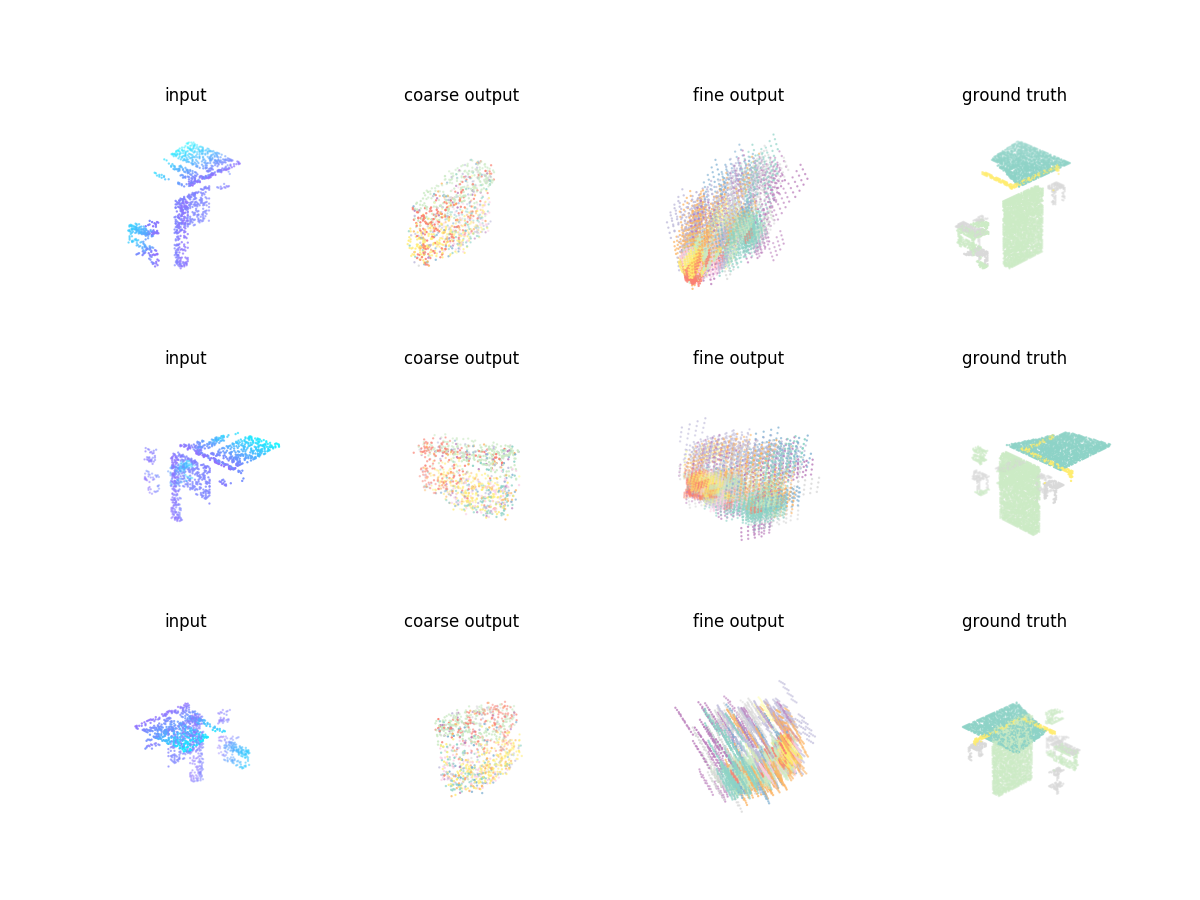
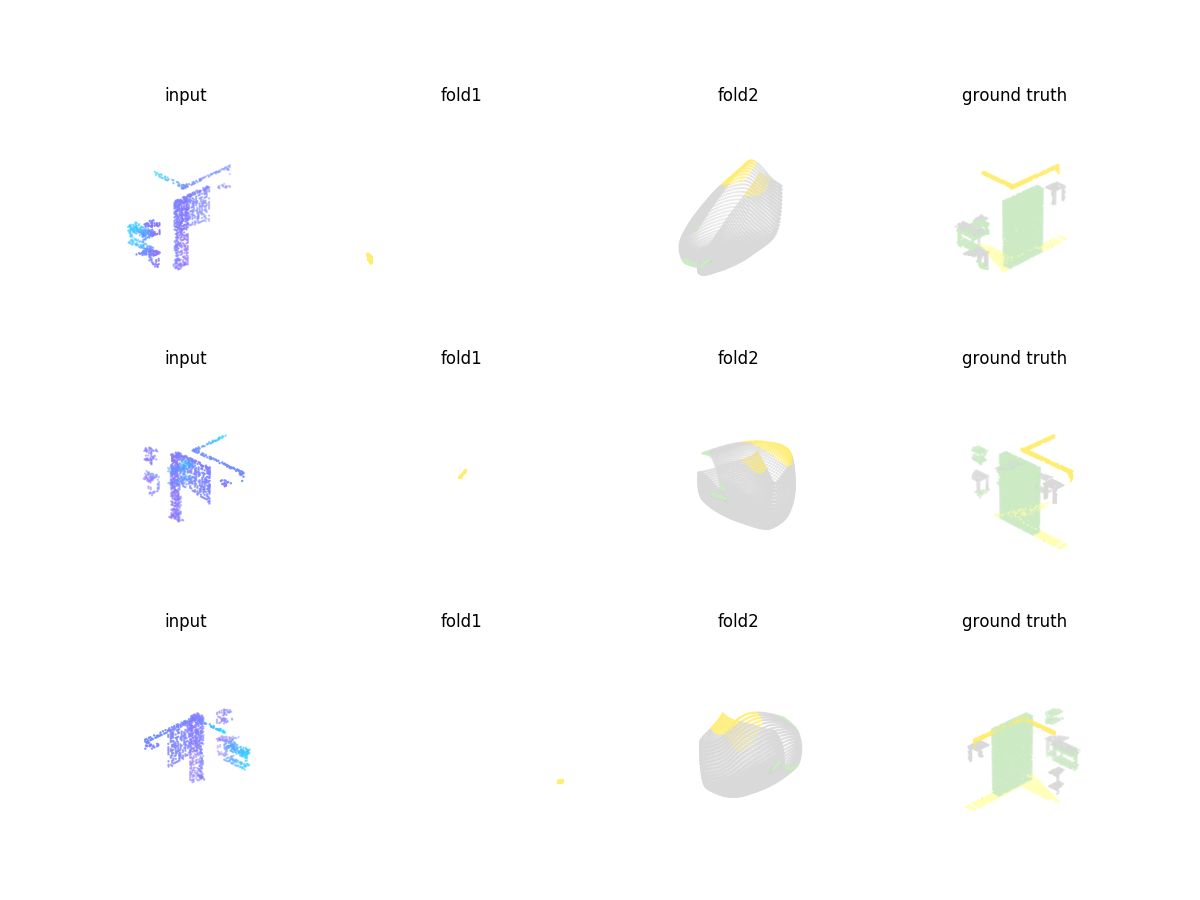
add plots

diff --git a/models/pcn_fold.py b/models/pcn_fold.py
@@ -8,88 +8,59 @@ from tf_util import *
 class Model:
     def __init__(self, inputs, npts, gt, alpha):
         self.num_coarse = 1
-        self.grid_size = 64
+        self.grid_size = 128
         self.grid_scale = 0.05
         self.num_fine = self.grid_size ** 2 * self.num_coarse
-        self.features = self.create_encoder(inputs, npts)
-        self.coarse, self.fine, self.fold = self.create_decoder(self.features)
-        self.loss, self.update = self.create_loss(self.coarse, self.fine, self.fold, gt, alpha)
-        self.outputs = self.fine
-        self.visualize_ops = [tf.split(inputs[0], npts, axis=0), self.fine, self.fold, gt]
-        self.visualize_titles = ['input', 'coarse output', 'fine output', 'ground truth']
+        self.features, self.features_3d = self.create_encoder(inputs, npts)
+        self.fold1, self.fold2 = self.create_decoder(self.features)
+        self.loss, self.update = self.create_loss(self.fold2, gt, alpha)
+        self.outputs = self.fold2
+        self.visualize_ops = [tf.split(inputs[0], npts, axis=0), self.fold1, self.fold2, gt]
+        self.visualize_titles = ['input', 'fold1', 'fold2', 'ground truth']
 
     def create_encoder(self, inputs, npts):
         with tf.variable_scope('encoder_0', reuse=tf.AUTO_REUSE):
-            # inputs = tf.concat([inputs[:,:,0:3], tf.cast(tf.one_hot(tf.cast(inputs[:,:,5]*11, tf.int32), 11), tf.float32)], -1)
-            features = mlp_conv(inputs[:,:,0:3], [128, 256])
+            features_reg = mlp_conv(inputs[:,:,0:3], [128, 256+11])
+            tmp_s, tmp_u, tmp_v = tf.linalg.svd(features_reg[:,:,0:256])
+            features_3d = tf.matmul(tmp_u, tf.matmul(tf.linalg.diag(tmp_s), tmp_v, adjoint_b=True))
+            features = features_reg[:,:,0:256]
             features_global = point_unpool(point_maxpool(features, npts, keepdims=True), npts)
             features = tf.concat([features, features_global], axis=2)
         with tf.variable_scope('encoder_1', reuse=tf.AUTO_REUSE):
             features = mlp_conv(features, [512, 1024])
             features = point_maxpool(features, npts)
-        return features
+        return features, tf.concat([features_3d[:,:,0:3], features_reg[:,:,256:]], axis=2)
 
     def create_decoder(self, features):
-        with tf.variable_scope('decoder', reuse=tf.AUTO_REUSE):
-            coarse = mlp(features, [1024, 1024, self.num_coarse * (3+11)])
-            coarse = tf.reshape(coarse, [-1, self.num_coarse, 3+11])
-
-        with tf.variable_scope('folding', reuse=tf.AUTO_REUSE):
+        with tf.variable_scope('fold1_0', reuse=tf.AUTO_REUSE):
             grid = tf.meshgrid(tf.linspace(-0.05, 0.05, self.grid_size), tf.linspace(-0.05, 0.05, self.grid_size))
             grid = tf.expand_dims(tf.reshape(tf.stack(grid, axis=2), [-1, 2]), 0)
             grid_feat = tf.tile(grid, [features.shape[0], self.num_coarse, 1])
+            point_feat = tf.tile(tf.expand_dims(features, 1), [1, self.grid_size ** 2, 1])
+            fold1_reg = mlp_conv(tf.concat([point_feat, grid_feat], axis=2), [512, 512+11])
+            tmp_s, tmp_u, tmp_v = tf.linalg.svd(fold1_reg[:,:,0:512])
+            fold1_3d = tf.matmul(tmp_u, tf.matmul(tf.linalg.diag(tmp_s), tmp_v, adjoint_b=True))
+        with tf.variable_scope('fold1_1', reuse=tf.AUTO_REUSE):
+            fold1 = mlp_conv(fold1_reg[:,:,0:512], [512, 3+11])
+        with tf.variable_scope('fold2', reuse=tf.AUTO_REUSE):
+            fold2 = mlp_conv(tf.concat([point_feat, fold1[:,:,0:3]], axis=2), [512, 512, 3+11]) 
+        return tf.concat([fold1_3d[:,:,0:3], fold1_reg[:,:,256:]], axis=2), fold2
 
-            point_feat = tf.tile(tf.expand_dims(coarse, 2), [1, 1, self.grid_size ** 2, 1])
-            point_feat = tf.reshape(point_feat, [-1, self.num_fine, 3+11])
-
-            global_feat = tf.tile(tf.expand_dims(features, 1), [1, self.num_fine, 1])
-
-            feat = tf.concat([grid_feat, point_feat, global_feat], axis=2)
-
-            center = tf.tile(tf.expand_dims(coarse, 2), [1, 1, self.grid_size ** 2, 1])
-            center = tf.reshape(center, [-1, self.num_fine, 3+11])
-
-            fine = mlp_conv(feat, [512, 512, 3+11]) + center
-
-        with tf.variable_scope('folding2', reuse=tf.AUTO_REUSE):
-            fine_feat = tf.concat([fine, point_feat, global_feat], axis=2)
-
-            fold = mlp_conv(fine_feat, [512, 512, 3+11]) 
-        return coarse, fine, fold
-
-    def create_loss(self, coarse, fine, fold, gt, alpha):
-        loss_coarse = chamfer(coarse[:,:,0:3], gt[:,:,0:3])
+    def create_loss(self, fold2, gt, alpha):
+        loss = chamfer(fold2[:,:,0:3], gt[:,:,0:3])
         """
-        _, retb, _, retd = tf_nndistance.nn_distance(coarse[:,:,0:3], gt[:,:,0:3])
+        _, retb, _, retd = tf_nndistance.nn_distance(fold2[:,:,0:3], gt[:,:,0:3])
         for i in range(np.shape(gt)[0]):
             index = tf.expand_dims(retb[i], -1)
-            sem_feat = tf.nn.softmax(coarse[i,:,3:], -1)
+            sem_feat = tf.nn.softmax(fold2[i,:,3:], -1)
             sem_gt = tf.cast(tf.one_hot(tf.gather_nd(tf.cast(gt[i,:,3]*11, tf.int32), index), 11), tf.float32)
-            loss_sem_coarse = tf.reduce_mean(-tf.reduce_sum(
+            loss_sem = tf.reduce_mean(-tf.reduce_sum(
                         0.97 * sem_gt * tf.log(1e-6 + sem_feat) + (1 - 0.97) *
                         (1 - sem_gt) * tf.log(1e-6 + 1 - sem_feat), [1]))
-            loss_coarse += 0.0001 * loss_sem_coarse
+            loss += 0.0001 * loss_sem
         """
-        add_train_summary('train/coarse_loss', loss_coarse)
-        update_coarse = add_valid_summary('valid/coarse_loss', loss_coarse)
 
-        loss_fine = chamfer(fine[:,:,0:3], gt[:,:,0:3]) + chamfer(fold[:,:,0:3], gt[:,:,0:3])
-        """
-        _, retb, _, retd = tf_nndistance.nn_distance(fine[:,:,0:3], gt[:,:,0:3])
-        for i in range(np.shape(gt)[0]):
-            index = tf.expand_dims(retb[i], -1)
-            sem_feat = tf.nn.softmax(fine[i,:,3:], -1)
-            sem_gt = tf.cast(tf.one_hot(tf.gather_nd(tf.cast(gt[i,:,3]*11, tf.int32), index), 11), tf.float32)
-            loss_sem_fine = tf.reduce_mean(-tf.reduce_sum(
-                        0.97 * sem_gt * tf.log(1e-6 + sem_feat) + (1 - 0.97) *
-                        (1 - sem_gt) * tf.log(1e-6 + 1 - sem_feat), [1]))
-            loss_fine += 0.0001 * loss_sem_fine
-        """
-        add_train_summary('train/fine_loss', loss_fine)
-        update_fine = add_valid_summary('valid/fine_loss', loss_fine)
-
-        loss = loss_coarse + alpha * loss_fine
         add_train_summary('train/loss', loss)
         update_loss = add_valid_summary('valid/loss', loss)
 
-        return loss, [update_coarse, update_fine, update_loss]
+        return loss, update_loss

diff --git a/test_shapenet.py b/test_shapenet.py
@@ -48,8 +48,8 @@ def test(args):
     cd_per_cat = {}
     emd_per_cat = {}
     for i, model_id in enumerate(model_list):
-        partial = read_pcd(os.path.join(args.data_dir, 'pcd_partial', '%s.pcd' % model_id))
-        complete = read_pcd(os.path.join(args.data_dir, 'pcd_complete', '%s.pcd' % model_id))
+        partial = read_pcd(os.path.join(args.data_dir, 'pcd_partial_fur', '%s.pcd' % model_id))
+        complete = read_pcd(os.path.join(args.data_dir, 'pcd_complete_fur', '%s.pcd' % model_id))
         complete = resample_pcd(complete, 16384)
         start = time.time()
         completion = sess.run(model.outputs, feed_dict={inputs: [partial], npts: [partial.shape[0]]})

diff --git a/models/pcn_cd.py b/models/pcn_cd.py
@@ -20,7 +20,6 @@ class Model:
 
     def create_encoder(self, inputs, npts):
         with tf.variable_scope('encoder_0', reuse=tf.AUTO_REUSE):
-            # inputs = tf.concat([inputs[:,:,0:3], tf.cast(tf.one_hot(tf.cast(inputs[:,:,5]*11, tf.int32), 11), tf.float32)], -1)
             features = mlp_conv(inputs[:,:,0:3], [128, 256])
             features_global = point_unpool(point_maxpool(features, npts, keepdims=True), npts)
             features = tf.concat([features, features_global], axis=2)

diff --git a/models/pcn_emd.py b/models/pcn_emd.py
@@ -20,7 +20,7 @@ class Model:
 
     def create_encoder(self, inputs, npts):
         with tf.variable_scope('encoder_0', reuse=tf.AUTO_REUSE):
-            features = mlp_conv(inputs, [128, 256])
+            features = mlp_conv(inputs[:,:,0:3], [128, 256])
             features_global = point_unpool(point_maxpool(features, npts, keepdims=True), npts)
             features = tf.concat([features, features_global], axis=2)
         with tf.variable_scope('encoder_1', reuse=tf.AUTO_REUSE):
